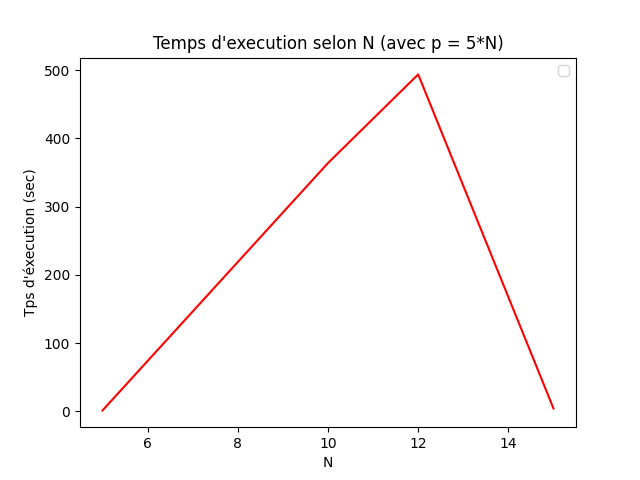
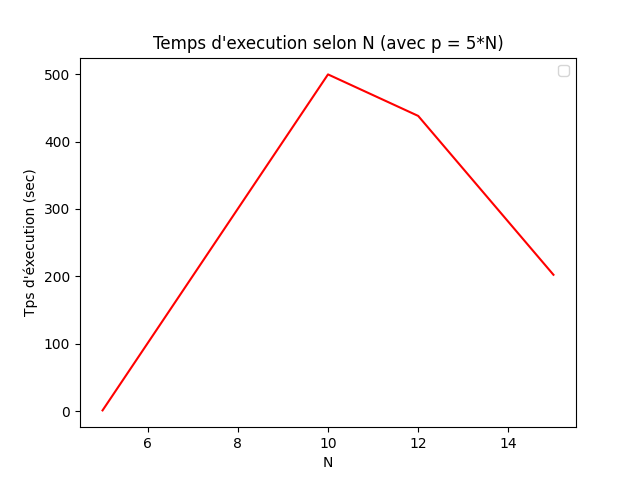
corrections mineures

diff --git a/partie2/part2Explicite.py b/partie2/part2Explicite.py
@@ -47,17 +47,17 @@ a = [[1,  -1,   0,   0,   0,   0,   0,   0,   0,   0,   0,   0,-325,-225,-210,-1
      [0,   0,   0,   0,   0,   0,   0,   0,   1,  -1,   0,   0,-325,-225,-210,-115, -75, -50,   0,   0,   0,   0,   0,   0,   0,   0,   0,   0,   0,   0],
      [0,   0,   0,   0,   0,   0,   0,   0,   1,   0,  -1,   0,   0,   0,   0,   0,   0,   0,-325,-225,-210,-115, -75, -50,   0,   0,   0,   0,   0,   0],
      [0,   0,   0,   0,   0,   0,   0,   0,   1,   0,   0,  -1,   0,   0,   0,   0,   0,   0,   0,   0,   0,   0,   0,   0,-325,-225,-210,-115, -75, -50],
-     [0,   0,   0,   0,   0,   0,   0,   0,   0,   0,   0,   0,   1,   1,   1,   1,   1,   1,   1,   1,   1,   1,   1,   1,   1,   1,   1,   1,   1,   1],
      [0,   0,   0,   0,   0,   0,   0,   0,   0,   0,   0,   0,   1,   0,   0,   0,   0,   0,   1,   0,   0,   0,   0,   0,   1,   0,   0,   0,   0,   0],
      [0,   0,   0,   0,   0,   0,   0,   0,   0,   0,   0,   0,   0,   1,   0,   0,   0,   0,   0,   1,   0,   0,   0,   0,   0,   1,   0,   0,   0,   0],
      [0,   0,   0,   0,   0,   0,   0,   0,   0,   0,   0,   0,   0,   0,   1,   0,   0,   0,   0,   0,   1,   0,   0,   0,   0,   0,   1,   0,   0,   0],
      [0,   0,   0,   0,   0,   0,   0,   0,   0,   0,   0,   0,   0,   0,   0,   1,   0,   0,   0,   0,   0,   1,   0,   0,   0,   0,   0,   1,   0,   0],
      [0,   0,   0,   0,   0,   0,   0,   0,   0,   0,   0,   0,   0,   0,   0,   0,   1,   0,   0,   0,   0,   0,   1,   0,   0,   0,   0,   0,   1,   0],
-     [0,   0,   0,   0,   0,   0,   0,   0,   0,   0,   0,   0,   0,   0,   0,   0,   0,   1,   0,   0,   0,   0,   0,   1,   0,   0,   0,   0,   0,   1]]
+     [0,   0,   0,   0,   0,   0,   0,   0,   0,   0,   0,   0,   0,   0,   0,   0,   0,   1,   0,   0,   0,   0,   0,   1,   0,   0,   0,   0,   0,   1],
+     [0,   0,   0,   0,   0,   0,   0,   0,   0,   0,   0,   0,   1,   1,   1,   1,   1,   1,   1,   1,   1,   1,   1,   1,   1,   1,   1,   1,   1,   1]]
 
 
 # Second membre
-b = [0,0,0,0,0,0,0,0,0,6,1,1,1,1,1,1]
+b = [0,0,0,0,0,0,0,0,0,1,1,1,1,1,1,6]
 
 # Coefficients de la fonction objectif
 c = [1,-1,-1,-1,2,-1,-1,-1,3,-1,-1,-1,0,0,0,0,0,0,0,0,0,0,0,0,0,0,0,0,0,0]

diff --git a/partie2/part2Automatique.py b/partie2/part2Automatique.py
@@ -28,7 +28,7 @@ def resolutionUtilite(n, p, U, w):
     sm_z = np.kron(np.ones((n,1)), block_diag(*sm_zi))
 
     # sous matrice représentant les contraintes du nombres d'objets affectés
-    sm_x = np.bmat([[np.ones((1,n*p))], [np.kron(np.ones((1,n)), np.eye(p))]])
+    sm_x = np.bmat([[np.kron(np.ones((1,n)), np.eye(p))], [np.ones((1,n*p))]])
 
     # sous matrice pour le remplissage par 0 du reste
     sm_zero = np.zeros((p+1, (n+1)*n))
@@ -39,8 +39,6 @@ def resolutionUtilite(n, p, U, w):
           
     # Récupération des nombre de variables, contraintes, etc
     nbVar = n*(n+1) + p*n       # On a n 'r_k'   +   n*n 'b_ik'   +   n*p 'x_ij'
-    nbCont = len(a)
-    lignes = range(nbCont)
     colonnes = range(nbVar)
             
     # Explicitation des indices des colonnes représentants les variables r_k, b_ik et x_ij
@@ -50,7 +48,7 @@ def resolutionUtilite(n, p, U, w):
     
     
     # Second membre
-    b = np.concatenate( (np.zeros((1,n*n)), p, np.ones((1,p))), axis = None )
+    b = np.concatenate( (np.zeros((1,n*n)), np.ones((1,p)), p), axis = None )
 
     # Coefficients de la fonction objectif
     c = []
@@ -93,8 +91,10 @@ def resolutionUtilite(n, p, U, w):
     m.setObjective(obj,GRB.MAXIMIZE)
 
     # Définition des contraintes
-    for i in lignes:
+    for i in range(len(a)-1):
         m.addConstr(quicksum(a[i][j]*x[j] for j in colonnes) <= b[i], "Contrainte%d" % i)
+    m.addConstr(quicksum(a[-1][j]*x[j] for j in colonnes) == b[-1], "Contrainte%d" % len(a))
+
 
     # Résolution
     m.optimize()

diff --git a/partie2/part2Tests.py b/partie2/part2Tests.py
@@ -22,8 +22,9 @@ for n in N:
     for i in range(10):
         # valeurs d'utilité arbitrairement choisies entre 0 et 100
         U = np.random.randint(100, size=(n,p)).tolist()
-        # valeurs de pondération arbitrairement choisies entre 0 et 2*n
-        w = np.random.randint(2*n, size=n).tolist()
+        # valeurs de pondération arbitrairement choisies entre 1 et n*n (maximum peu probable)
+        # (pour s'assurer une décroissance STRICTE, on fait la somme cumulée des tirages entre 1 et n)
+        w = np.cumsum(np.random.randint(1,n, size=n)).tolist()
         # tri dans l'ordre décroissant du vecteur des pondérations
         w.sort(reverse=True)
         

diff --git a/partie3/part3Tests.py b/partie3/part3Tests.py
@@ -20,8 +20,9 @@ for n in N:
     # stocke les temps des 10 instances pour ce n
     tps_N = []
 
-    # valeurs de pondération arbitrairement choisies entre 0 et 2*n
-    w = np.random.randint(2*n, size=n).tolist()
+    # valeurs de pondération arbitrairement choisies entre 1 et n*n (maximum peu probable)
+    # (pour s'assurer une décroissance STRICTE, on fait la somme cumulée des tirages entre 1 et n)
+    w = np.cumsum(np.random.randint(1,n, size=n)).tolist()
     # tri dans l'ordre décroissant du vecteur des pondérations
     w.sort(reverse=True)
 

diff --git a/README.md b/README.md
@@ -8,11 +8,11 @@ Ce projet a été développé en Python3 et requiert donc un executeur python.
 
 Il utilise divers modules qui sont indispensables à son fonctionnement :
 
-* gurobipy  (résolution de programme linéaire)
-* numpy     (simplification de l'usage des liste)
-* scipy.linalg
-* time
-* matplotlib.pyplot
+* gurobipy              (résolution de programme linéaire)
+* numpy                 (simplification de l'usage des listes)
+* scipy.linalg          (simplification de construction de matrice par blocs)
+* time                  (calcul du temps d'execution)
+* matplotlib.pyplot     (affichage et sauvegarde des graph)
 
 Ces modules peuvent être installé si besoin par la commande `pip install <nom_du_module>`
 
